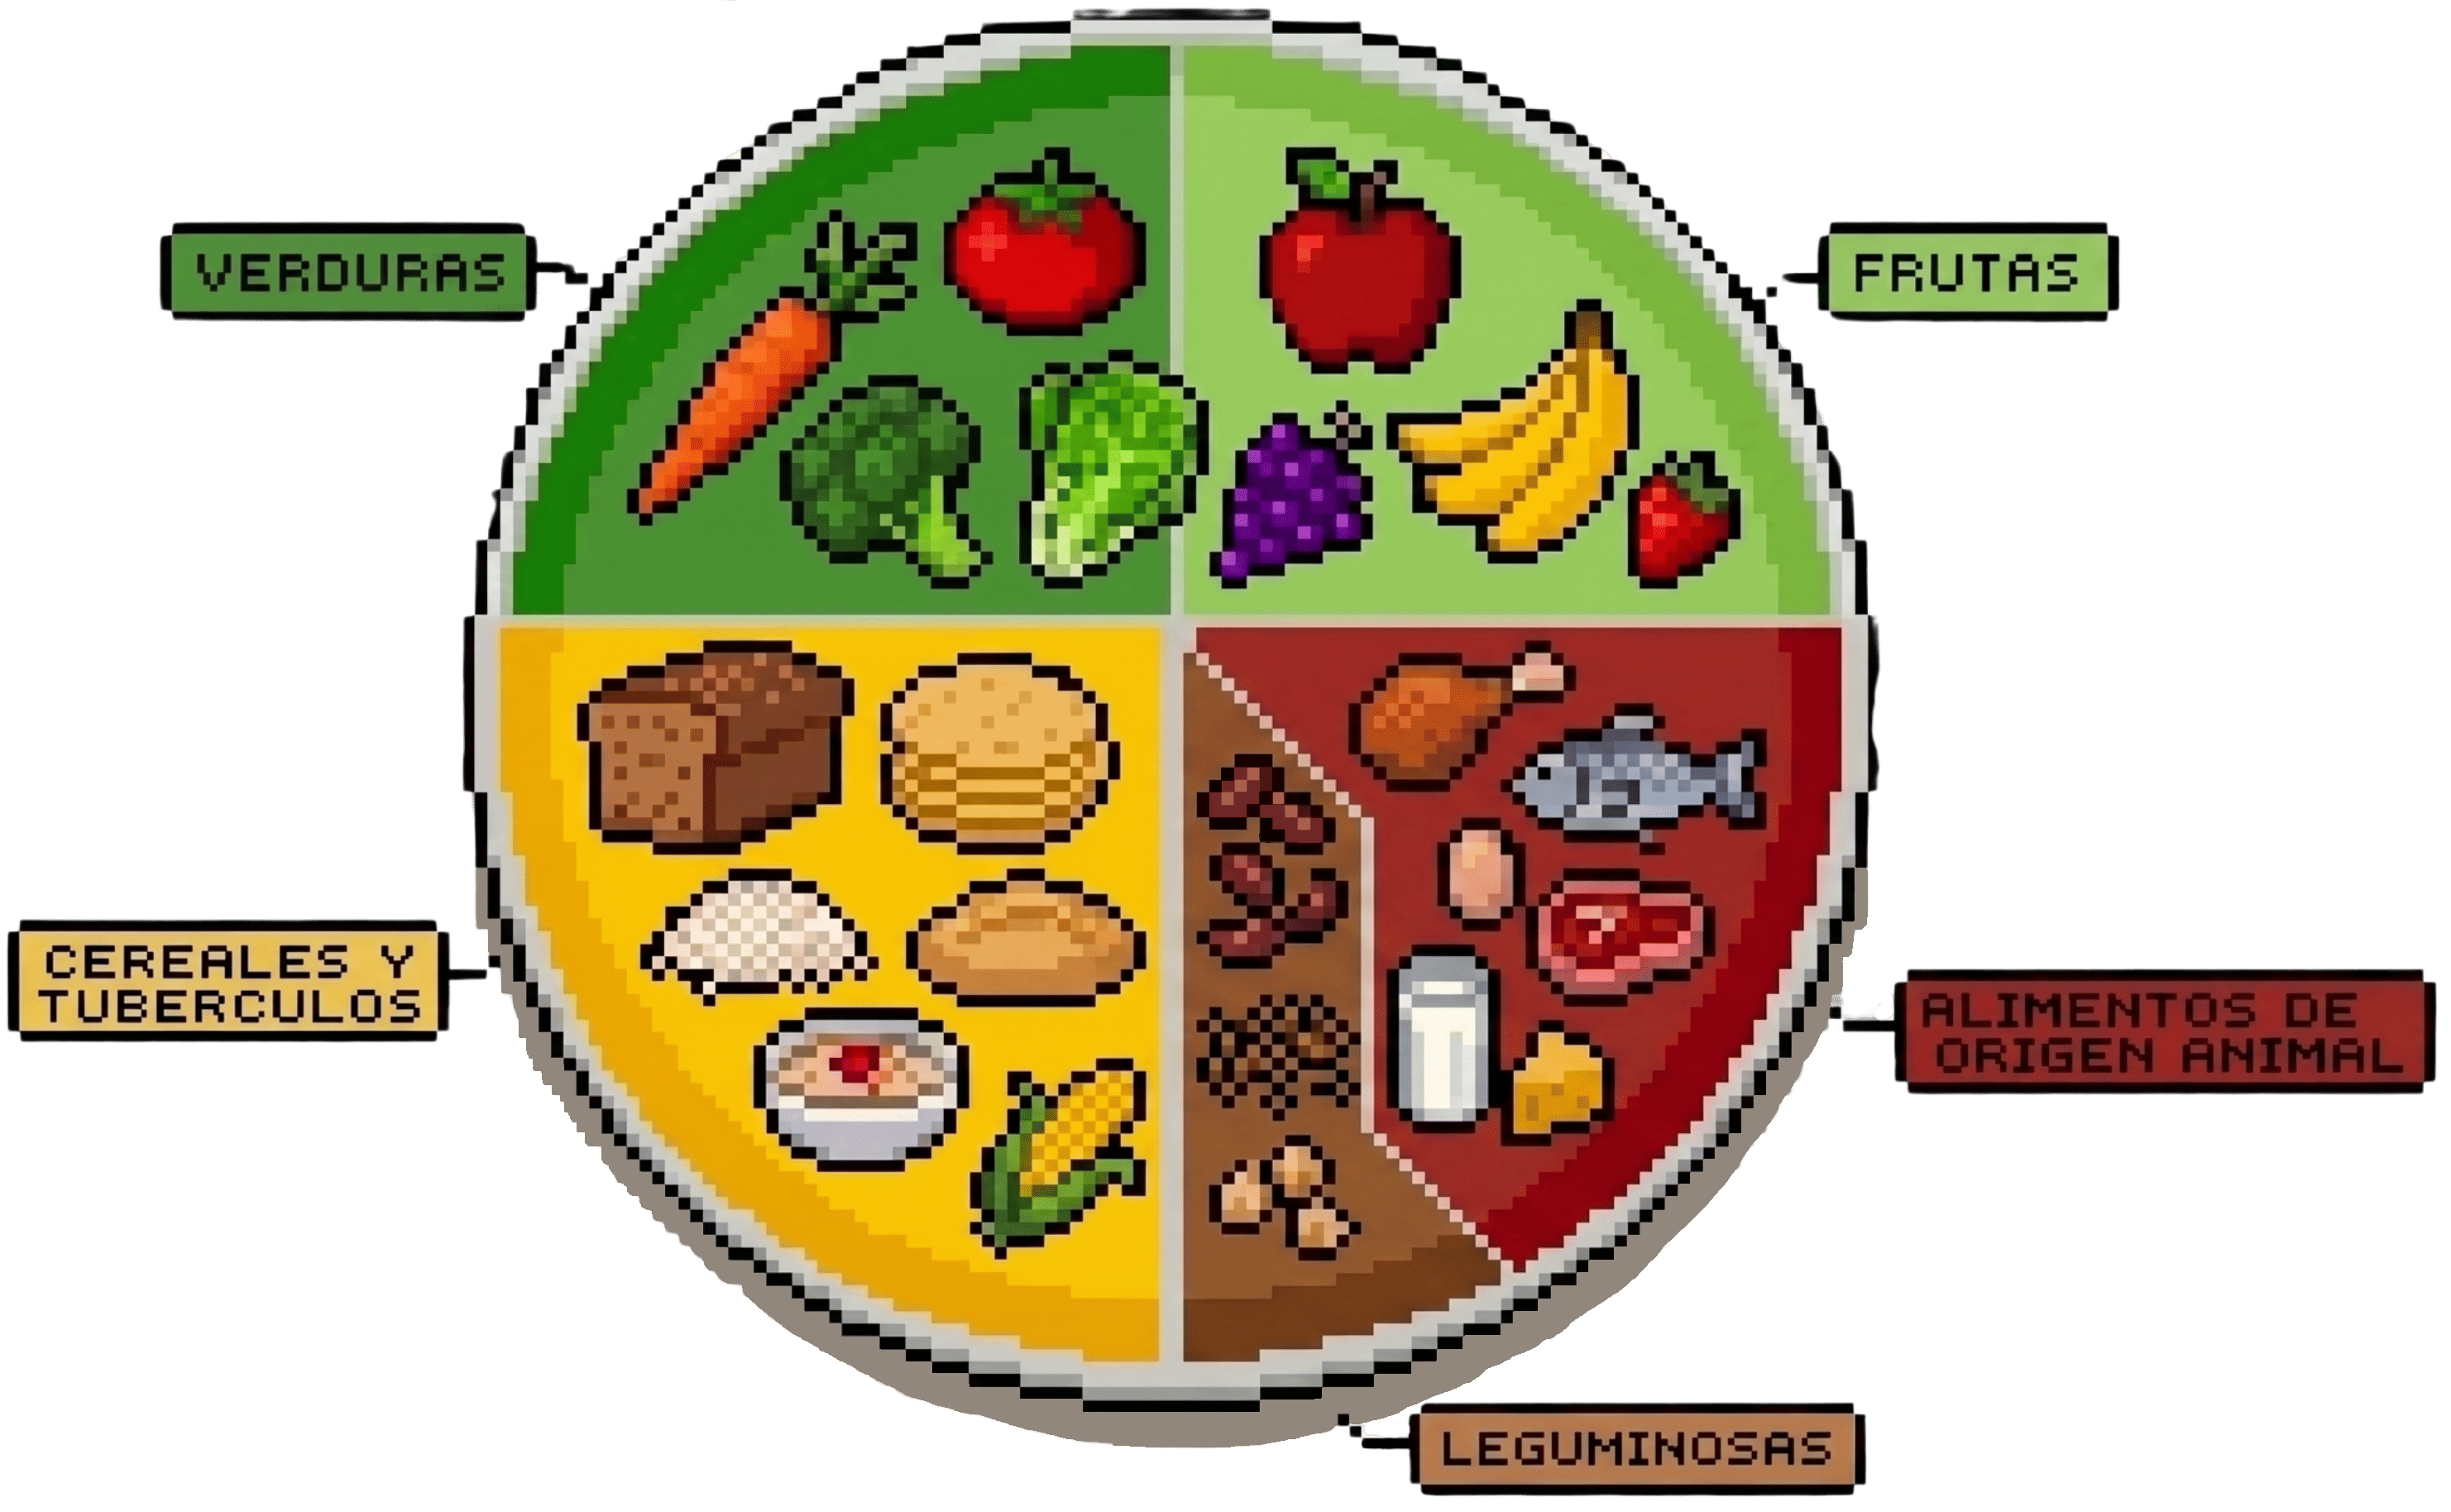
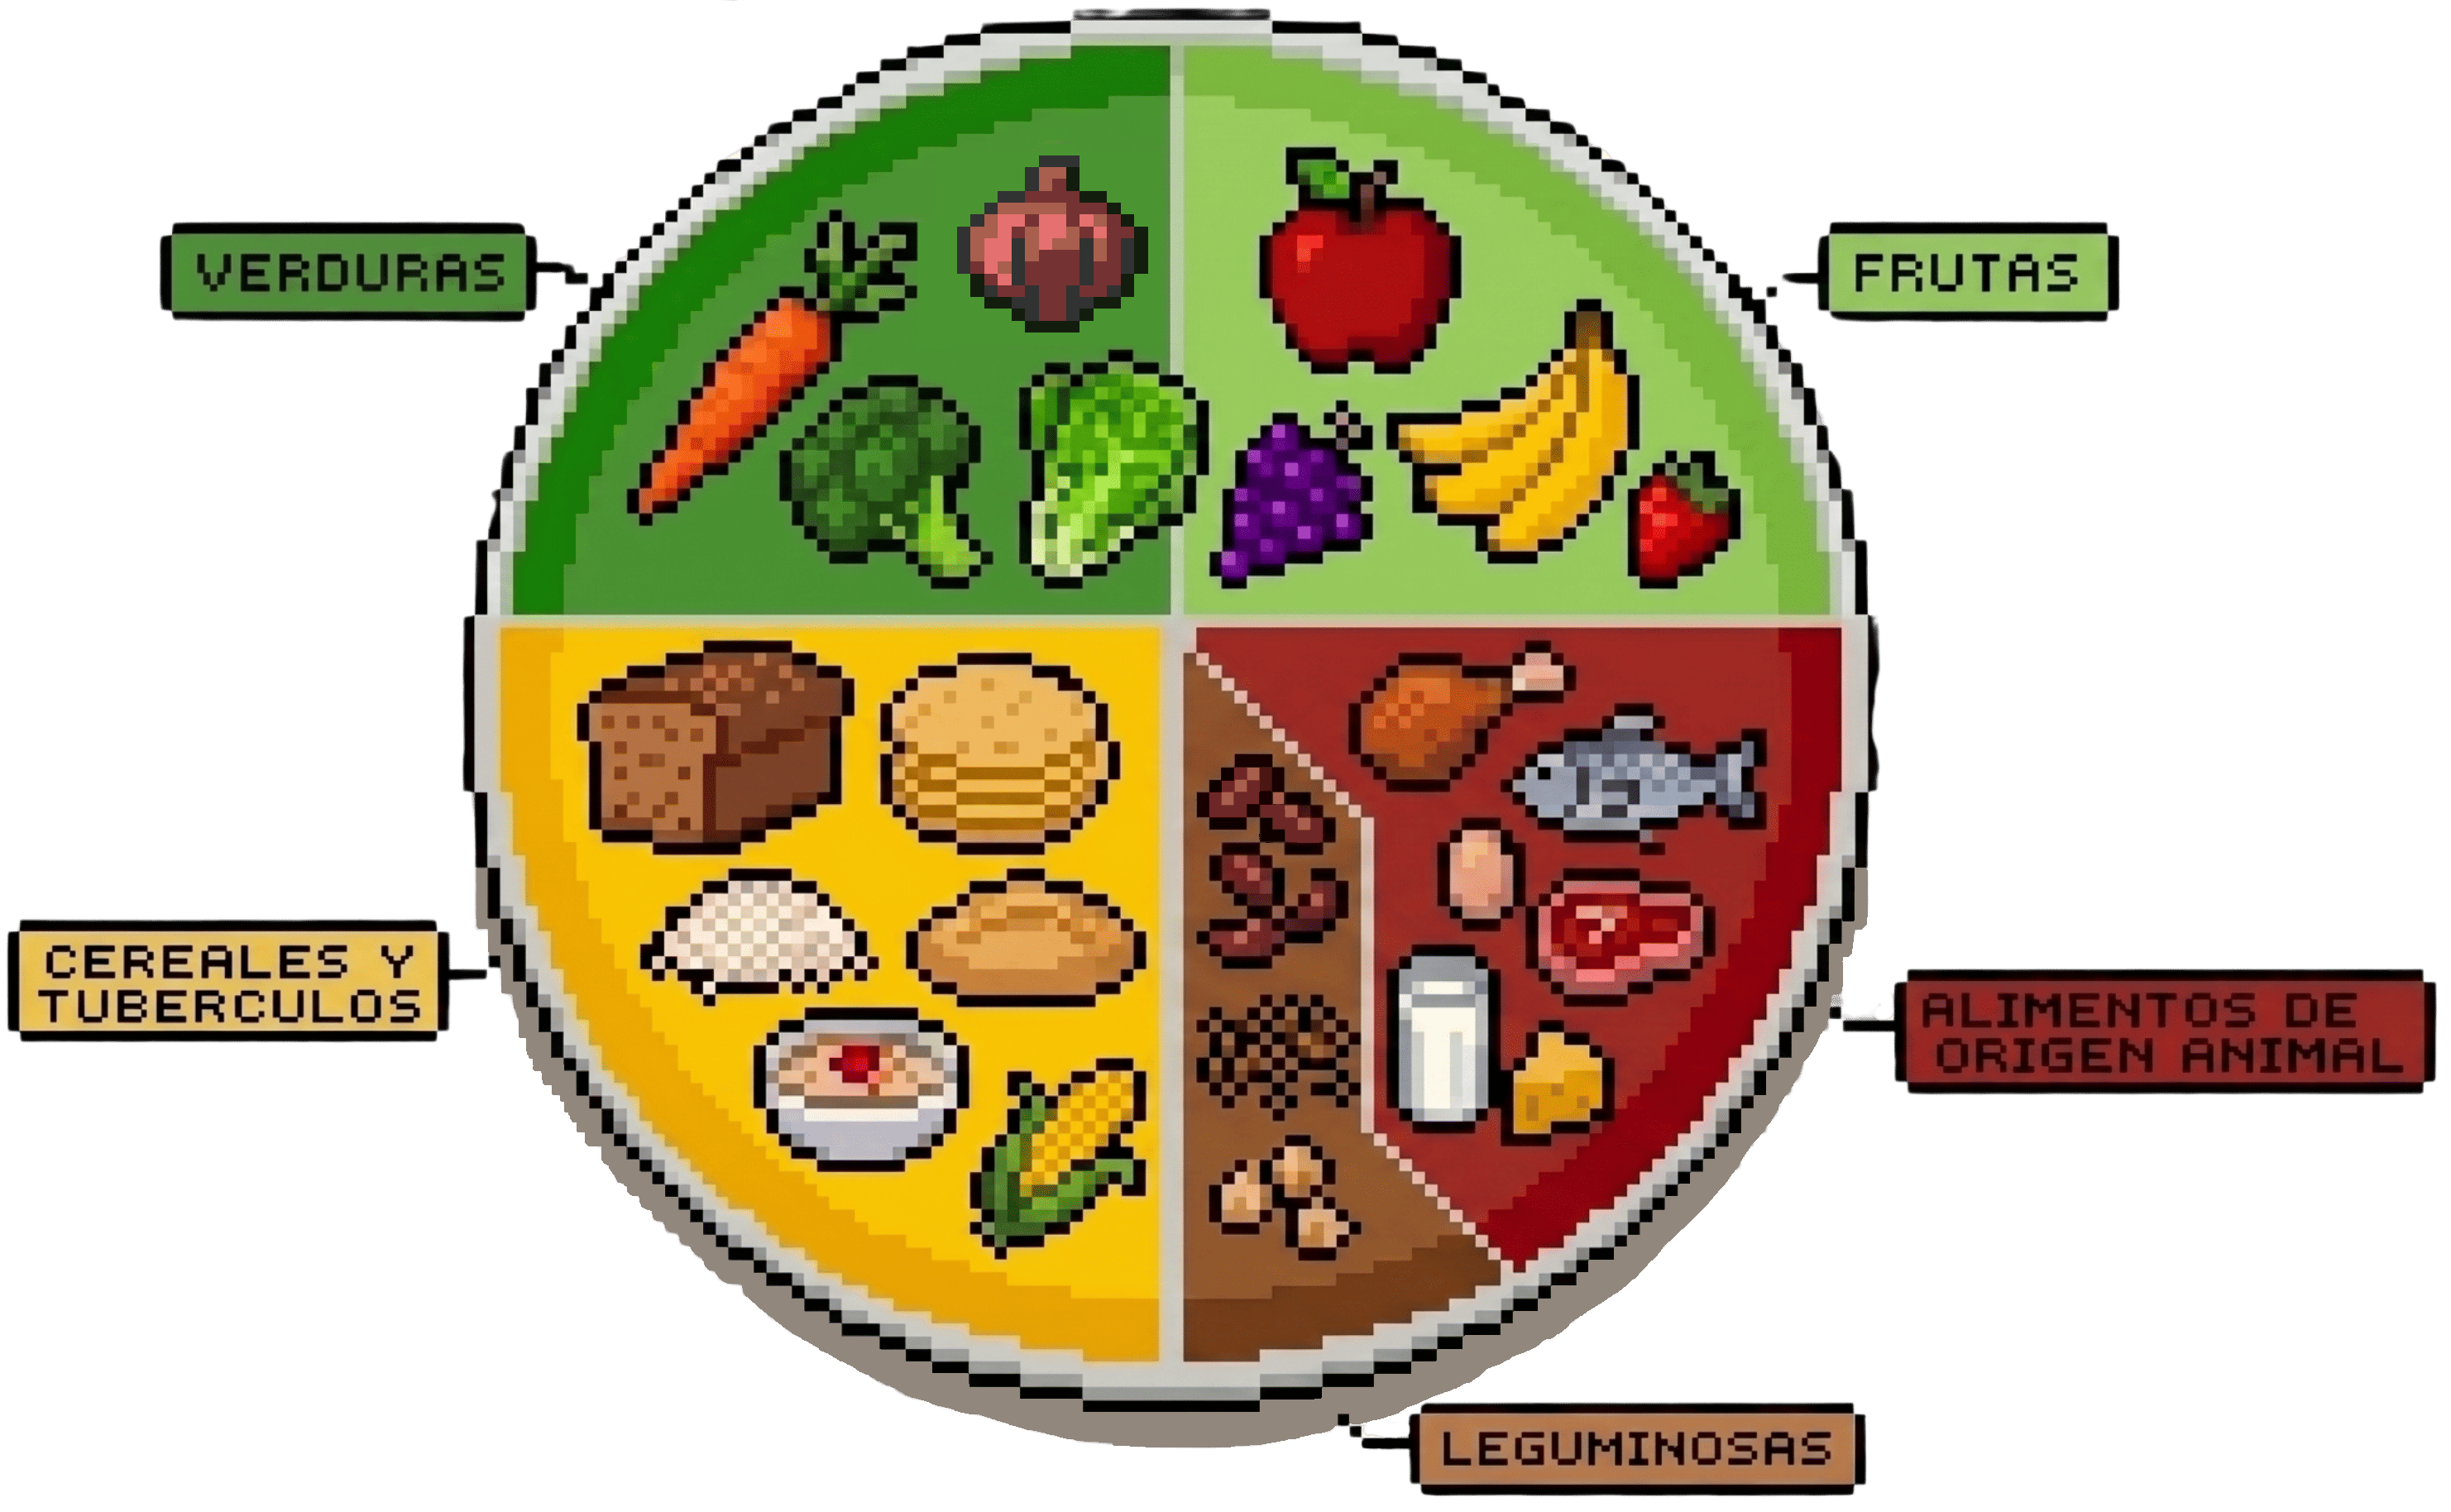
Interactividad con el plato

Changed region(s): [[0.3726, 0.0935, 0.4657, 0.2495]]

diff --git a/src/game/scenes/TutorialScene.ts b/src/game/scenes/TutorialScene.ts
@@ -118,37 +118,81 @@ export class TutorialScene extends Phaser.Scene {
       .setAlpha(0)
       .setDepth(100)
       .on("pointerdown", () => this.restorePlate());
+
+    // 🏠 BOTÓN IR AL MENÚ PRINCIPAL
+    this.add.text(width - 50, 50, "Menú Principal", {
+      fontSize: "32px",
+      fontFamily: "Arial",
+      color: "#ffffff",
+      backgroundColor: "#4CAF50", // Verde para destacar
+      padding: { x: 20, y: 10 }
+    })
+      .setOrigin(1, 0) // Alineado a la derecha
+      .setInteractive({ useHandCursor: true })
+      .setDepth(100)
+      .on("pointerover", function (this: Phaser.GameObjects.Text) { this.setTint(0xdddddd); })
+      .on("pointerout", function (this: Phaser.GameObjects.Text) { this.clearTint(); })
+      .on("pointerdown", () => {
+        this.clickSound.play();
+        this.scene.start("MainMenu");
+      });
   }
 
   /**
    * Crea zonas geométricas transparentes sobre la imagen del plato.
    */
   private createInteractiveZones() {
+    // El centro de la imagen escalada
     const px = this.plato.x;
     const py = this.plato.y;
 
-    // Dimensiones exactas visuales del plato (ancho original 2963 x escala 0.3)
-    const pw = 2963 * 0.3; // ~888.9
-    const ph = 1828 * 0.3; // ~548.4
+    // 🔧 AJUSTE DEL CENTRO REAL DEL PLATO
+    // Como el círculo del plato no está perfectamente centrado en la imagen, aplicamos un offset (en píxeles escalados).
+    // Valores negativos en Y mueven las zonas hacia ARRIBA.
+    const offsetX = 0;
+    const offsetY = -40; // <-- Ajusta este valor si las zonas siguen muy arriba o muy abajo
 
-    // Dividimos el plato sin superposiciones (overlap):
-    // - Mitad superior: dividida en 2 (Verduras, Frutas)
-    // - Mitad inferior: dividida en 3 (Cereales, Leguminosas, Animal)
+    const centerX = px + offsetX;
+    const centerY = py + offsetY;
+
+    // Medidas EXACTAS del plato dadas
+    const radioOriginal = 560;
+
+    // Escala usada al crear la imagen
+    const scale = 0.3;
+    const rBase = radioOriginal * scale;
+
+    // Multiplicamos por valores diferentes para arriba y abajo para ajustar al dibujo
+    const rTop = rBase * 1.45;    // ~10% menos para que Frutas y Verduras no se salgan
+    const rBottom = rBase * 1.6;  // 1.6 quedó perfecto para la parte de abajo
+
+    // Modo debug: Cambia a true para ver las zonas de colores y ajustarlas perfectamente
+    const DEBUG_ZONES = false;
+
+    // Dividimos el plato sin superposiciones (overlap) usando los radios ajustados:
     // Nota: El frame 2 está vacío, así que Cereales es 3, Leguminosas es 4, Animal es 5.
     const zonesConfig = [
-      // Top half (2 columnas)
-      { id: "verduras", ox: -pw / 4, oy: -ph / 4, w: pw / 2, h: ph / 2, frame: 0, msg: "¡Aprende sobre frutas y verduras!" },
-      { id: "frutas", ox: pw / 4, oy: -ph / 4, w: pw / 2, h: ph / 2, frame: 1, msg: "¡Aprende sobre frutas y verduras!" },
-      
-      // Bottom half (3 columnas)
-      { id: "cereales", ox: -pw / 3, oy: ph / 4, w: pw / 3, h: ph / 2, frame: 3, msg: "¡Conoce los cereales y tubérculos!" },
-      { id: "leguminosas", ox: 0, oy: ph / 4, w: pw / 3, h: ph / 2, frame: 4, msg: "¡Descubre las leguminosas!" },
-      { id: "animal", ox: pw / 3, oy: ph / 4, w: pw / 3, h: ph / 2, frame: 5, msg: "¡Conoce los alimentos de origen animal!" }
+      // Top half (2 columnas). Recortamos el alto un 10% de abajo hacia arriba para no invadir la mitad inferior.
+      { id: "verduras", ox: -rTop / 2, oy: -rTop * 0.55, w: rTop, h: rTop * 0.9, frame: 0, msg: "¡Aprende sobre frutas y verduras!", color: 0x00ff00 },
+      { id: "frutas", ox: rTop / 2, oy: -rTop * 0.55, w: rTop, h: rTop * 0.9, frame: 1, msg: "¡Aprende sobre frutas y verduras!", color: 0xff0000 },
+
+      // Bottom half (3 zonas). Ajustado para que Leguminosas no invada Cereales a la izquierda
+      { id: "cereales", ox: -rBottom * 0.55, oy: rBottom / 2, w: rBottom * 0.9, h: rBottom, frame: 3, msg: "¡Conoce los cereales y tubérculos!", color: 0xffff00 },
+      { id: "leguminosas", ox: rBottom * 0.05, oy: rBottom / 2, w: rBottom * 0.3, h: rBottom, frame: 4, msg: "¡Descubre las leguminosas!", color: 0xffa500 },
+      { id: "animal", ox: rBottom * 0.6, oy: rBottom / 2, w: rBottom * 0.8, h: rBottom, frame: 5, msg: "¡Conoce los alimentos de origen animal!", color: 0x8b4513 }
     ];
 
     zonesConfig.forEach(z => {
-      const zone = this.add.zone(px + z.ox, py + z.oy, z.w, z.h)
+      const zoneX = centerX + z.ox;
+      const zoneY = centerY + z.oy;
+
+      const zone = this.add.zone(zoneX, zoneY, z.w, z.h)
         .setInteractive({ useHandCursor: true });
+
+      // Si el modo debug está activo, dibuja un rectángulo visible para calibrar
+      if (DEBUG_ZONES) {
+        this.add.rectangle(zoneX, zoneY, z.w, z.h, z.color, 0.3).setDepth(200);
+      }
 
       // LÓGICA DE HOVER (ENTER)
       zone.on("pointerover", () => {